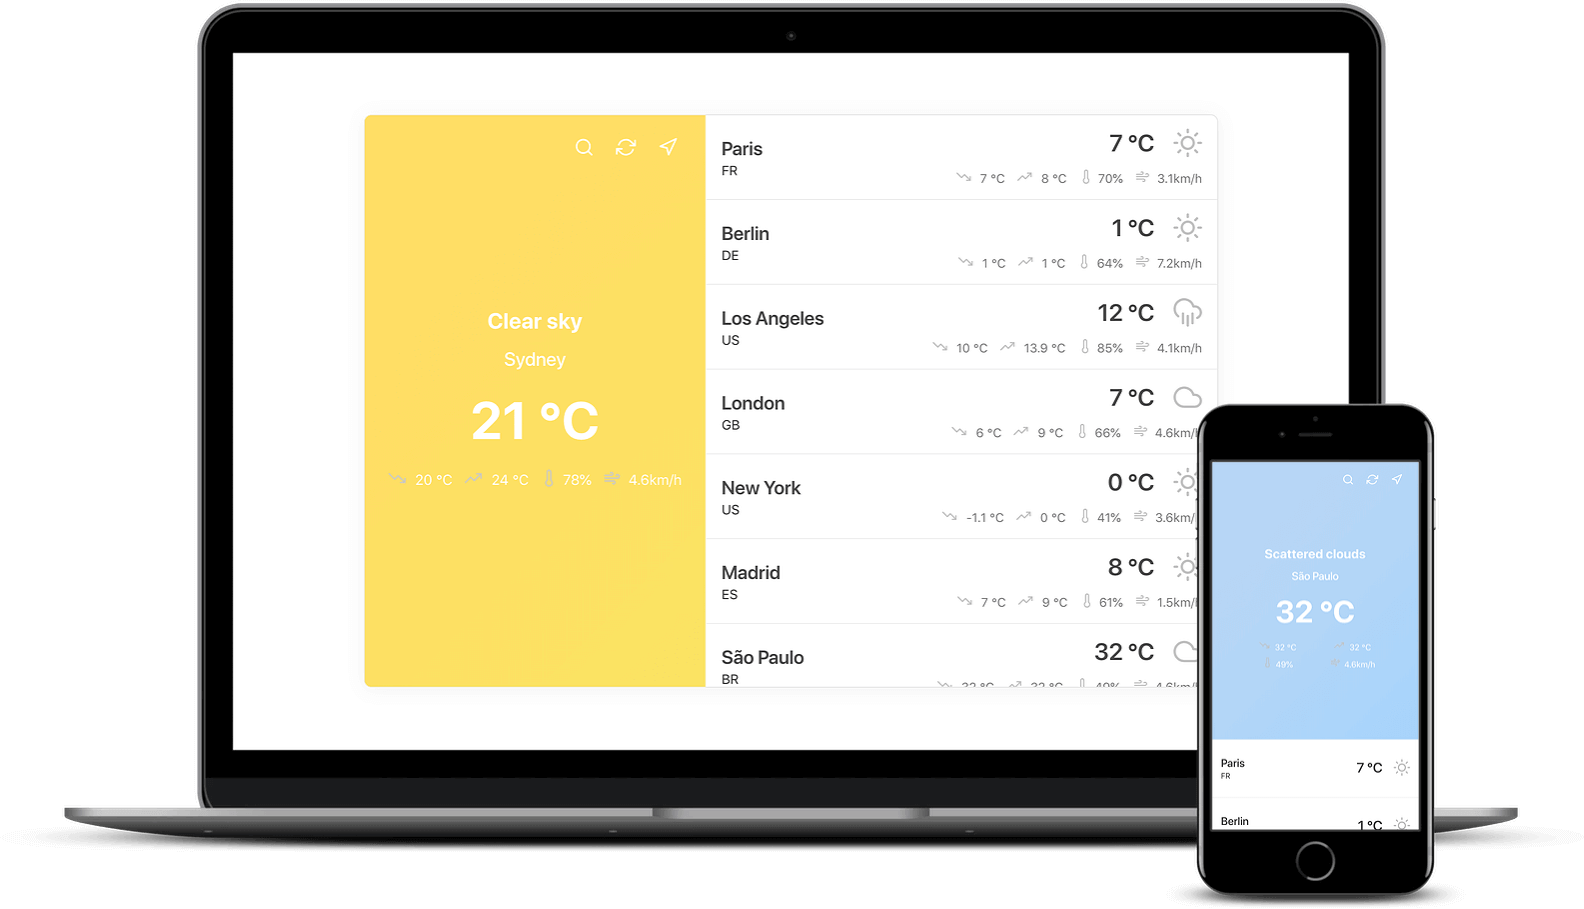
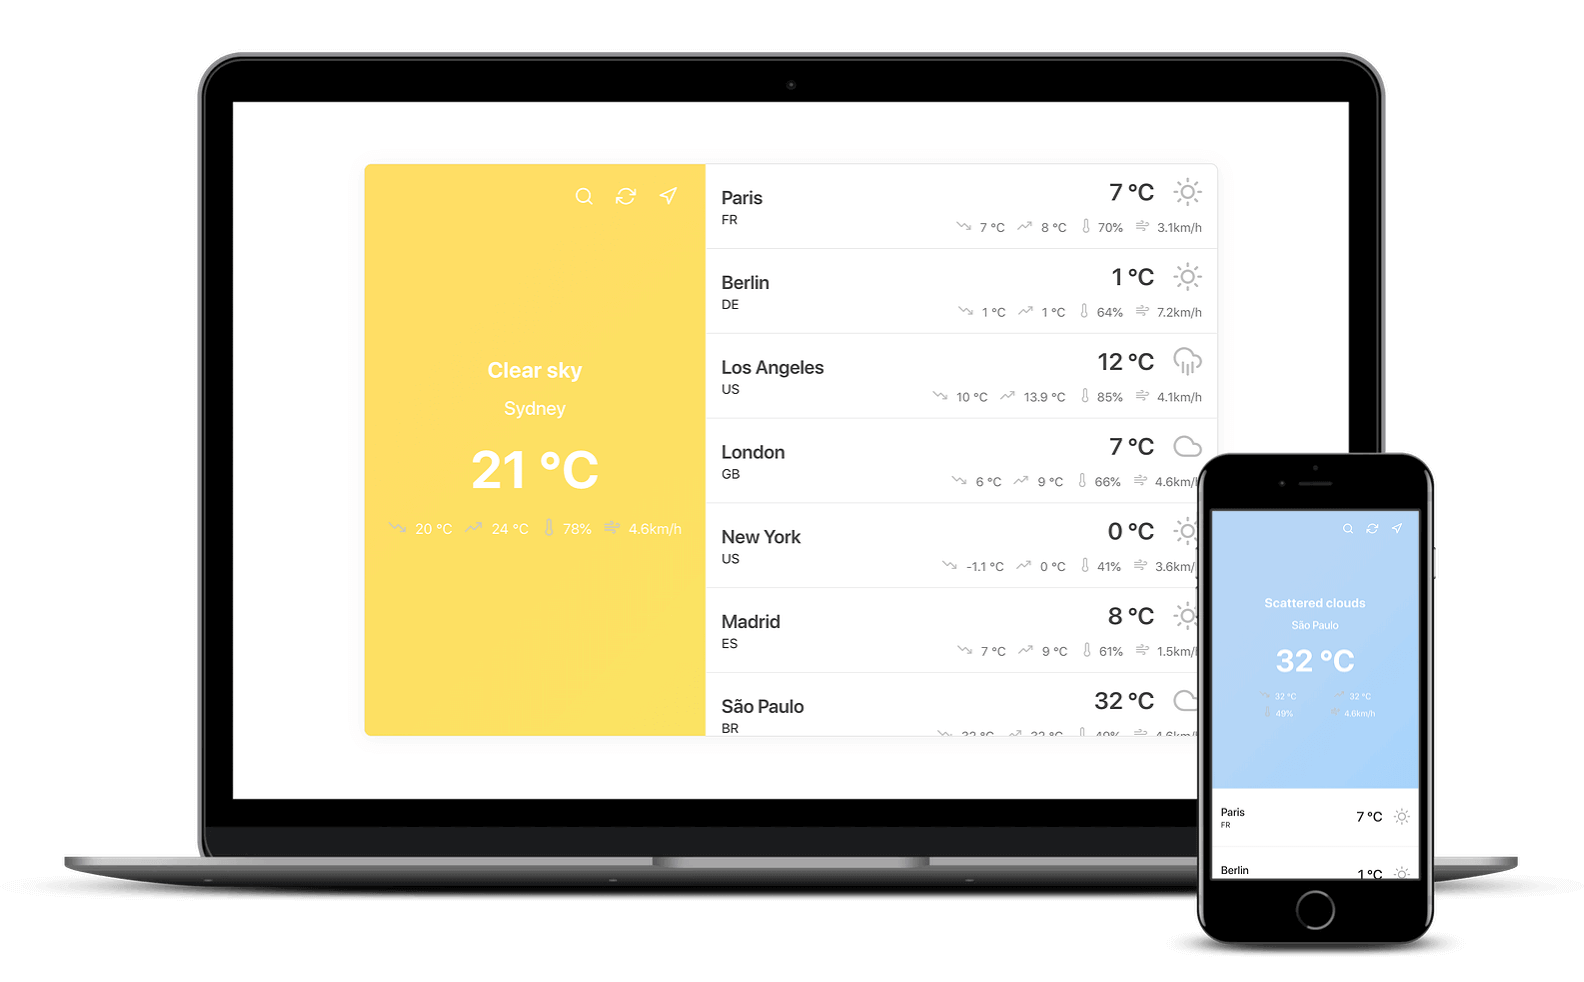
Update

diff --git a/README.md b/README.md
@@ -9,7 +9,9 @@ Find out the current weather forecast in any city around the world. Download the
 I built this app to learn more about the idea of [styled components](https://github.com/styled-components/styled-components) with React, [PWA](https://developers.google.com/web/progressive-web-apps/) concepts and [PRPL](https://developers.google.com/web/fundamentals/performance/prpl-pattern/) pattern too.
 The main idea of this project is that anyone wants discover the weather around the world or local can search and find easily, with a nice UI and great usability.
 
-<img alt="Weather App (PWA)" src="./resources/demo.png" height="900" width="500" />
+<p align="center">
+  <img alt="Weather App (PWA)" src="./resources/demo.png" width="600" />
+</p>
 
 ## TODO
 
